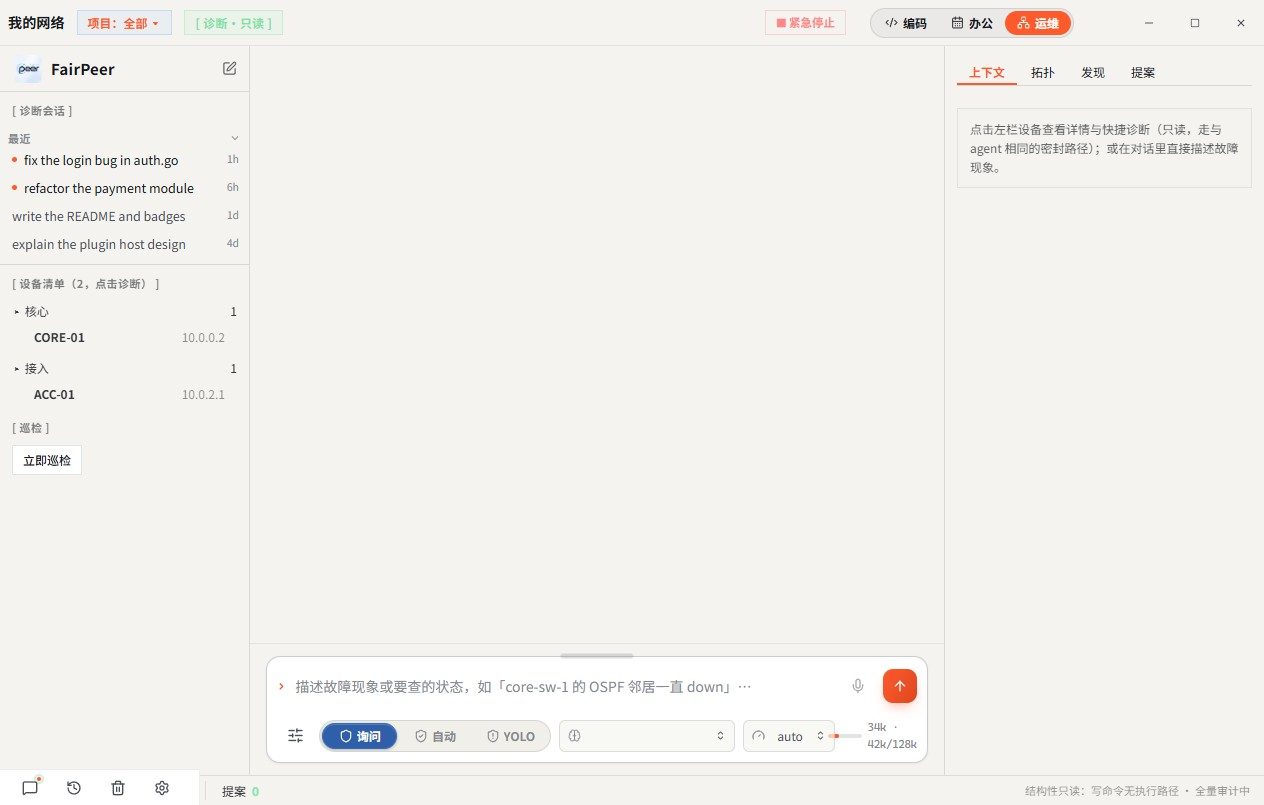
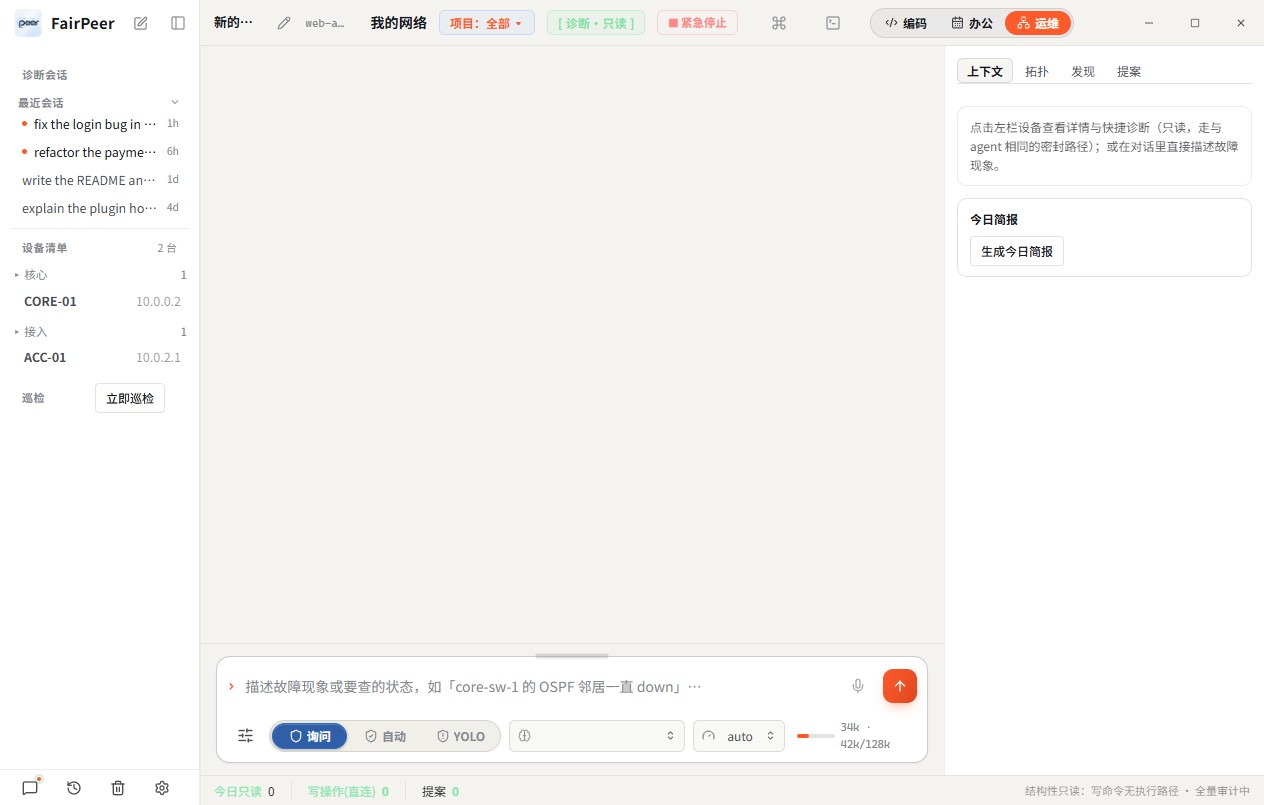
fix: 陈旧页签模型回退本地预设 + 运维左栏章法重整
启动错误根因（unknown model mimo/mimo-v2.5-pro）：
- desktop-tabs.json 里旧页签保存的模型引用活得比配置久（mimo provider 已不在）
- ResolveModelWithFallback 末段把无密钥 provider（本地 ollama/llamacpp）全跳过
  → 无任何回退 → 模型名直通 boot → 启动报错
- 修复收窄到非空陈旧引用分支：允许无密钥本地预设作为回退；空引用（全新安装）
  仍绝不自动选本地预设（既有测试语义保留），新增测试锁定两分支

左栏章法（用户反馈'很乱没有章法'）：
- 统一节头模式：[名称] 左 + 右侧灰色等宽数字元信息（设备清单 N 台/堡垒链 N 跳）
- 巡检节改为「[巡检] + 立即巡检按钮」同行右对齐，不再漂在下方
- 双紧急停止为旧标签页残留（源码仅标题栏一处），硬刷新即消

diff --git a/desktop/frontend/src/layouts/NetDevLayout.tsx b/desktop/frontend/src/layouts/NetDevLayout.tsx
@@ -388,9 +388,12 @@ export function NetDevLayout({
             </button>
           )}
         </div>
-        <div className="ndv__section">诊断会话</div>
+        <div className="ndv__section-row"><div className="ndv__section">诊断会话</div></div>
         <div className="ndv__sessions">{sessionsNode}</div>
-        <div className="ndv__section">设备清单（{devices.length}{project ? ` · ${project.name}` : ""}，点击诊断）</div>
+        <div className="ndv__section-row">
+          <div className="ndv__section">设备清单</div>
+          <span className="ndv__section-meta">{project ? `${project.name} · ` : ""}{devices.length} 台</span>
+        </div>
         {devices.length === 0 && (
           <div className="ndv__hint">还没有设备。右栏「开始使用」三步录入。</div>
         )}
@@ -409,15 +412,15 @@ export function NetDevLayout({
         ))}
         {(settings?.hops?.length ?? 0) > 0 && (
           <>
-            <div className="ndv__section">堡垒链（{settings?.hops.length}）</div>
+            <div className="ndv__section-row"><div className="ndv__section">堡垒链</div><span className="ndv__section-meta">{settings?.hops.length} 跳</span></div>
             {(settings?.hops ?? []).map(h => (
               <div key={h.name} className="ndv__device"><span className="ndv__device-name">{h.name}</span><span className="ndv__device-addr">{h.host}</span></div>
             ))}
           </>
         )}
-        <div className="ndv__section">巡检</div>
-        <div className="ndv__rail-actions">
-          <span className="btn btn--secondary btn--small" role="button" onClick={() => void runInspection()}>
+        <div className="ndv__section-row">
+          <div className="ndv__section">巡检</div>
+          <span className="btn btn--secondary btn--small ndv__section-btn" role="button" onClick={() => void runInspection()}>
             {inspBusy ? "巡检中…" : "立即巡检"}
           </span>
         </div>

diff --git a/desktop/frontend/src/styles/netdev.css b/desktop/frontend/src/styles/netdev.css
@@ -182,6 +182,22 @@
   user-select: none;
 }
 
+.ndv__section-row {
+  display: flex;
+  align-items: center;
+  justify-content: space-between;
+  gap: 8px;
+  padding: 10px 12px 4px;
+}
+.ndv__section-row .ndv__section { padding: 0; }
+.ndv__section-meta {
+  font-size: 11px;
+  opacity: 0.55;
+  font-variant-numeric: tabular-nums;
+  white-space: nowrap;
+}
+.ndv__section-btn { margin-right: 12px; }
+
 .ndv__hint {
   padding: 2px 2px 8px;
   font-size: 11.5px;

diff --git a/internal/config/config.go b/internal/config/config.go
@@ -105,6 +105,16 @@ type MobileBridgeConfig struct {
 	// 提前打开 S 侧 NAT。双对称 NAT 无效（协议 §7）。
 	UDPKnock    bool   `toml:"udp_knock"`
 	KnockServer string `toml:"knock_server"` // 敲门依赖的远程 STUN，如 stun:host:3478
+	// CloudSignalURL 公网跳板 K（跨网配对/信令候选）：非空时 S 维持第二条
+	// 出站 WSS 长连到该云 K，二维码 relay 追加它为末位候选——手机同网自动
+	// 选局域网直连，跨网回退到云 K 打洞。空 = 关（纯局域网/单 K，零云）。
+	CloudSignalURL string `toml:"cloud_signal_url"`
+	// TURN 中转兜底（跨网打洞全败时经 coturn 中继；ICE 仍优先直连）。
+	// 凭据为 coturn use-auth-secret（REST）模式：user=时间戳，pass=HMAC。
+	TURNEnabled bool     `toml:"turn_enabled"`
+	TURNServers []string `toml:"turn_servers"` // 如 ["turn:signal.example.com:3478?transport=udp"]
+	TURNUser    string   `toml:"turn_user"`
+	TURNPass    string   `toml:"turn_pass"`
 }
 
 // UIConfig controls CLI presentation-only settings. Desktop appearance is kept in
@@ -2455,13 +2465,23 @@ func (c *Config) ResolveModelWithFallback(ref string) (resolvedRef string, fallb
 			return e.Name + "/" + e.Model, true, true
 		}
 	}
+	// The final loop serves two very different callers and must keep them apart:
+	// an EMPTY ref (fresh install / onboarding) must never auto-select keyless
+	// local presets (TestResolveModelWithFallbackNeverAutoSelectsLocalPresets),
+	// but a NON-EMPTY stale ref (a persisted tab model whose provider was since
+	// removed) prefers any working local preset over bricking startup with
+	// "unknown model" — desktop-tabs.json regularly outlives config edits.
+	staleRef := ref != ""
 	for i := range c.Providers {
 		p := &c.Providers[i]
-		// Skip providers with no models or no API key: falling back onto a keyless
-		// provider just boots the tab onto something that fails on first use. Mirrors
-		// the Configured() gate the provider-removal/selection paths already apply.
-		if len(p.ModelList()) == 0 || !p.Configured() {
+		if len(p.ModelList()) == 0 {
 			continue
+		}
+		if p.APIKeyEnv != "" && !p.Configured() {
+			continue // keyed provider without its key can't serve
+		}
+		if p.APIKeyEnv == "" && !staleRef {
+			continue // fresh install: keyless local presets never auto-select
 		}
 		return p.Name + "/" + p.DefaultModel(), true, true
 	}

diff --git a/desktop/tabs.go b/desktop/tabs.go
@@ -1055,6 +1055,34 @@ func tabHasSelectableProvider(cfg *config.Config) bool {
 	return false
 }
 
+// cfgModelResolvable reports whether a persisted "provider/model" reference
+// still exists in the current config. Tabs outlive config edits: a model picked
+// months ago (e.g. a provider later removed) must fall back to default_model,
+// not brick startup with "unknown model".
+func cfgModelResolvable(cfg *config.Config, ref string) bool {
+	if cfg == nil {
+		return false
+	}
+	ref = strings.TrimSpace(ref)
+	if ref == "" {
+		return true
+	}
+	prov, model, _ := strings.Cut(ref, "/")
+	p, ok := cfg.Provider(prov)
+	if !ok {
+		return false
+	}
+	if model == "" || model == p.Default {
+		return true
+	}
+	for _, m := range p.Models {
+		if m == model {
+			return true
+		}
+	}
+	return false
+}
+
 func (a *App) buildTabController(tab *WorkspaceTab) {
 	// Reset the ready signal so a rebuild (model switch) produces a fresh edge.
 	// Callers blocked on the previous build already returned; a new wait starts
@@ -3024,10 +3052,10 @@ func (a *App) TrashTopic(topicID string) error {
 // ListProjectTree builds the sidebar tree: project folders each containing
 // their topics, plus a Global section.
 // ListProjectTree returns the project-tree sidebar model. The profile argument
-// routes the projects index to the per-profile file so dev/cowork show only
-// their own conversations. An empty profile ("") reads the legacy un-profiled
-// index (backward compatible). Wails binds this as a 1-arg method; the frontend
-// always passes a profile ("dev"/"cowork").
+// routes the projects index to the per-profile file so dev/cowork/netdev show
+// only their own conversations. An empty profile ("") reads the legacy
+// un-profiled index (backward compatible). Wails binds this as a 1-arg method;
+// the frontend always passes a profile ("dev"/"cowork"/"netdev").
 func (a *App) ListProjectTree(profile string) []ProjectNode {
 	migrateLegacySessionsIntoGlobalTopics(config.SessionDir(), profile)
 	f := loadProjectsFile(profile)

diff --git a/internal/config/local_providers_test.go b/internal/config/local_providers_test.go
@@ -3,6 +3,7 @@ package config
 import (
 	"os"
 	"path/filepath"
+	"strings"
 	"testing"
 )
 
@@ -129,5 +130,21 @@ func TestNormalizeLocalProviderNoProxy(t *testing.T) {
 	}
 	if e, _ := cfg.Provider("remote"); e.NoProxy {
 		t.Error("remote endpoint must not be touched")
+	}
+}
+
+// A stale tab model (provider since removed) with only keyless local providers
+// configured must fall back to the local preset instead of returning ok=false
+// (which surfaced as the desktop's "unknown model" startup error).
+func TestResolveModelWithFallbackKeylessLocal(t *testing.T) {
+	c := Default()
+	c.DefaultModel = ""
+	c.Providers = BuiltinLocalProviders()
+	resolved, fallback, ok := c.ResolveModelWithFallback("mimo/mimo-v2.5-pro")
+	if !ok || !fallback {
+		t.Fatalf("ok=%v fallback=%v — keyless local providers must be valid fallbacks", ok, fallback)
+	}
+	if !strings.HasPrefix(resolved, "ollama/") {
+		t.Fatalf("resolved = %q, want the first local preset", resolved)
 	}
 }
